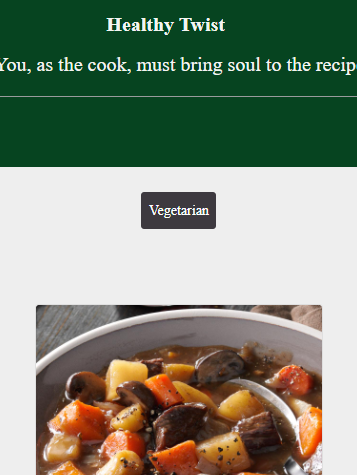
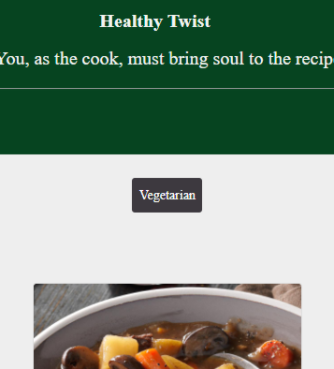
Some Changes

diff --git a/src/Projects.js b/src/Projects.js
@@ -9,11 +9,12 @@ import Paper from "@material-ui/core/Paper";
 import HackerNewsClone from "./HackerNewsClone.png";
 import KnowYourIp from "./KnowYourIp.png";
 import Capture from "./Capture.PNG";
-import { RepeatOne } from "@material-ui/icons";
+import Todolist from "./Todolist.PNG";
+import { RepeatOne, RepeatOneRounded } from "@material-ui/icons";
 
 const useStyles = makeStyles((theme) => ({
   root: {
-    height: 180,
+    height: 120,
   },
   container: {
     display: "flex",
@@ -31,15 +32,22 @@ const useStyles = makeStyles((theme) => ({
 const styles = {
   paperContainer1: {
     backgroundImage: `url(${HackerNewsClone})`,
-    backgroundRepeat: RepeatOne,
-    backgroundSize: 200,
+    backgroundRepeat: "no-repeat",
+    backgroundSize: 170,
   },
   paperContainer2: {
     backgroundImage: `url(${KnowYourIp})`,
-    backgroundSize: 200,
+    backgroundRepeat: "no-repeat",
+    backgroundSize: 160,
   },
   paperContainer3: {
     backgroundImage: `url(${Capture})`,
+    backgroundRepeat: "no-repeat",
+    backgroundSize: 150,
+  },
+  paperContainer4: {
+    backgroundImage: `url(${Todolist})`,
+    backgroundRepeat: "no-repeat",
     backgroundSize: 200,
   },
 };
@@ -61,7 +69,10 @@ export default function Projects({ handleChange, checked }) {
           >
             <svg className={classes.svg}></svg>
             <h4>
-              <a href="https://vibrant-boyd-67473f.netlify.app" target="_blank">
+              <a
+                href="https://nervous-bose-e8cd03.netlify.app/"
+                target="_blank"
+              >
                 Know Your IP App
               </a>
             </h4>
@@ -96,7 +107,14 @@ export default function Projects({ handleChange, checked }) {
             style={styles.paperContainer3}
           >
             <svg className={classes.svg}></svg>
-            <h4>Healthy Twist App</h4>
+            <h4>
+              <a
+                href="https://vibrant-wescoff-1211b0.netlify.app/"
+                target="_blank"
+              >
+                Healthy Twist App
+              </a>
+            </h4>
             <GitHubIcon />
           </Paper>
         </Grow>
@@ -106,7 +124,11 @@ export default function Projects({ handleChange, checked }) {
           style={{ transformOrigin: "0 0 0" }}
           {...(checked ? { timeout: 1000 } : {})}
         >
-          <Paper elevation={4} className={classes.paper}>
+          <Paper
+            elevation={4}
+            className={classes.paper}
+            style={styles.paperContainer4}
+          >
             <svg className={classes.svg}></svg>
             <h4>ToDo List</h4>
             <GitHubIcon />

diff --git a/src/Resume.js b/src/Resume.js
@@ -1,31 +1,69 @@
 import React from "react";
 import ABC from "./ABC.pdf";
-import Button from "@material-ui/core/Button";
-// import Chip from "@material-ui/core/Chip";
-import Grow from "@material-ui/core/Grow";
 import { makeStyles } from "@material-ui/core/styles";
 import "./Resume.css";
-export default function Resume({ handleChange, checked }) {
-  return (
-    <div>
-      {/* <a href={ABC} target="_blank">
-        Download Resume
-      </a> */}
-      {/* <Button variant="contained" href={ABC} target="_blank">
-        View Resume
-      </Button> */}
-      <br />
-      <br />
-      <div class="wrapper">
-        <a class="resumeLink" href={ABC.pdf} target="_blank">
-          View Resume
-        </a>
-      </div>
+import Grow from "@material-ui/core/Grow";
+import Paper from "@material-ui/core/Paper";
+import { grey } from "@material-ui/core/colors";
 
-      <br />
-      <br />
-      <br />
-      <h3>Technical Skills</h3>
+const useStyles = makeStyles((theme) => ({
+  root: {
+    height: 80,
+  },
+  container: {
+    display: "flex",
+    justifyContent: "center",
+  },
+  paper: {
+    margin: theme.spacing(1),
+  },
+  svg: {
+    maxWidth: 150,
+    maxHeight: 150,
+  },
+}));
+
+export default function Resume({ handleChange, checked }) {
+  checked = !checked;
+
+  const classes = useStyles();
+  return (
+    <div className={classes.root}>
+      <div className={classes.container}>
+        <Grow in={checked}>
+          <Paper
+            elevation={4}
+            className={classes.paper}
+            // style={styles.paperContainer2}
+          >
+            <svg className={classes.svg}></svg>
+          </Paper>
+        </Grow>
+
+        {/* Conditionally applies the timeout prop to change the entry speed. */}
+        <Grow
+          in={checked}
+          style={{ transformOrigin: "0 0 0" }}
+          {...(checked ? { timeout: 1000 } : {})}
+        >
+          <Paper
+            elevation={4}
+            className={classes.paper}
+            // style={styles.paperContainer1}
+          >
+            <svg className={classes.svg}></svg>
+          </Paper>
+        </Grow>
+        <Grow in={checked}>
+          <Paper
+            elevation={4}
+            className={classes.paper}
+            // style={styles.paperContainer3}
+          >
+            <svg className={classes.svg}></svg>
+          </Paper>
+        </Grow>
+      </div>
     </div>
   );
 }

diff --git a/src/About.css b/src/About.css
@@ -1,0 +1,64 @@
+@import url("https://fonts.googleapis.com/css2?family=Poiret+One&display=swap");
+
+html,
+body {
+  height: 100%;
+}
+h1,
+p {
+  font-family: "Poiret One", cursive;
+}
+/* body {
+ background: -webkit-linear-gradient(45deg, #e6e2df 80%, #c2c1bd 100%);
+ background: linear-gradient(45deg, #e6e2df 80%, #c2c1bd 100%);
+} */
+.wrapper {
+  width: 100%;
+  font-family: "Source Sans Pro", monospace;
+  margin: 0 auto;
+  height: 100%;
+}
+.wrapper h2 {
+  text-transform: uppercase;
+  -webkit-transform: translate(-50%, -50%) skew(10deg) rotate(-10deg);
+  transform: translate(-50%, -50%) skew(10deg) rotate(-10deg);
+  font-size: 20vw;
+  top: 50%;
+  left: 50%;
+  margin: 0;
+  position: absolute;
+  text-rendering: optimizeLegibility;
+  font-weight: 900;
+  color: rgba(227, 247, 240, 0.5);
+  text-shadow: 1px 4px 6px #e6e2df, 0 0 0 #66303a, 1px 4px 6px #e6e2df;
+}
+.wrapper h2:before {
+  content: attr(text-data);
+  position: absolute;
+  left: 0;
+  top: -4.8%;
+  overflow: hidden;
+  width: 100%;
+  height: 50%;
+  color: #fbf7f4;
+  -webkit-transform: translate(1.6vw, 0) skew(-13deg) scale(1, 1.2);
+  transform: translate(1.6vw, 0) skew(-13deg) scale(1, 1.2);
+  z-index: 2;
+  text-shadow: 2px -1px 6px rgba(0, 0, 0, 0.2);
+}
+.wrapper h2:after {
+  content: attr(text-data);
+  position: absolute;
+  left: 0;
+  top: 0;
+  overflow: hidden;
+  width: 100%;
+  height: 100%;
+  z-index: 1;
+  color: #d3cfcc;
+  -webkit-transform: translate(0vw, 0) skew(13deg) scale(1, 0.8);
+  transform: translate(0vw, 0) skew(13deg) scale(1, 0.8);
+  -webkit-clip-path: polygon(0 50%, 100% 50%, 100% 100%, 0% 100%);
+  clip-path: polygon(0 50%, 100% 50%, 100% 100%, 0% 100%);
+  text-shadow: 2px -1px 6px rgba(0, 0, 0, 0.3);
+}

diff --git a/src/About.js b/src/About.js
@@ -1,10 +1,11 @@
 import React from "react";
 import Chip from "@material-ui/core/Chip";
+import "./About.css";
 
 const About = () => {
   return (
     <div>
-      <h2>Sherine Cecil</h2>
+      <h1 text-data="Folded">Hi, I'm Sherine Cecil.</h1>
       <p>
         I am a Frontend Developer, living in Stuttgart, Germany.
         <br />I build clean and responsive interfaces, always seeking to provide

diff --git a/src/Navbar.css b/src/Navbar.css
@@ -5,7 +5,7 @@ li {
 ul {
   display: flex;
   justify-content: space-around;
-  margin: 150px;
+  margin: 100px;
 }
 li.link1:hover,
 li.link1:active {
@@ -22,4 +22,12 @@ li.link3:active {
 li.link4:hover,
 li.link4:active {
   transform: scale(1.5);
+}
+
+@media (max-width: 450px) {
+  ul {
+    display: flex;
+    justify-content: center;
+    flex-direction: column;
+  }
 }

diff --git a/public/index.html b/public/index.html
@@ -27,6 +27,7 @@
       work correctly both with client-side routing and a non-root public URL.
       Learn how to configure a non-root public URL by running `npm run build`.
     -->
+    
     <title>Sherine Cecil</title>
   </head>
   <body>
